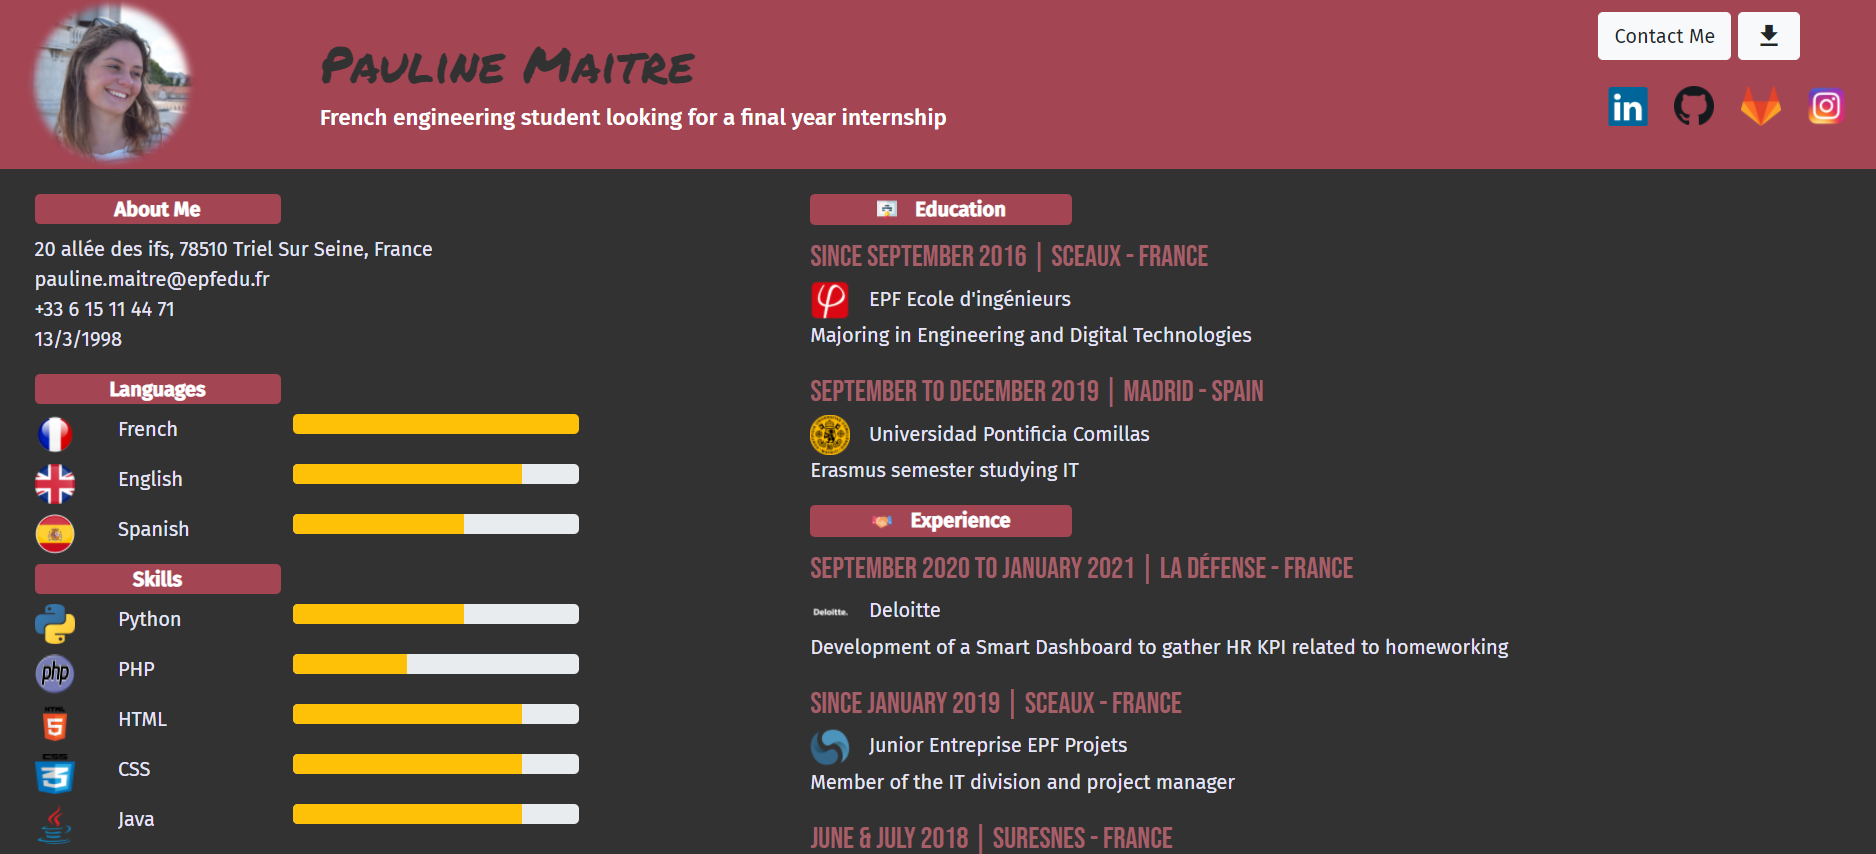
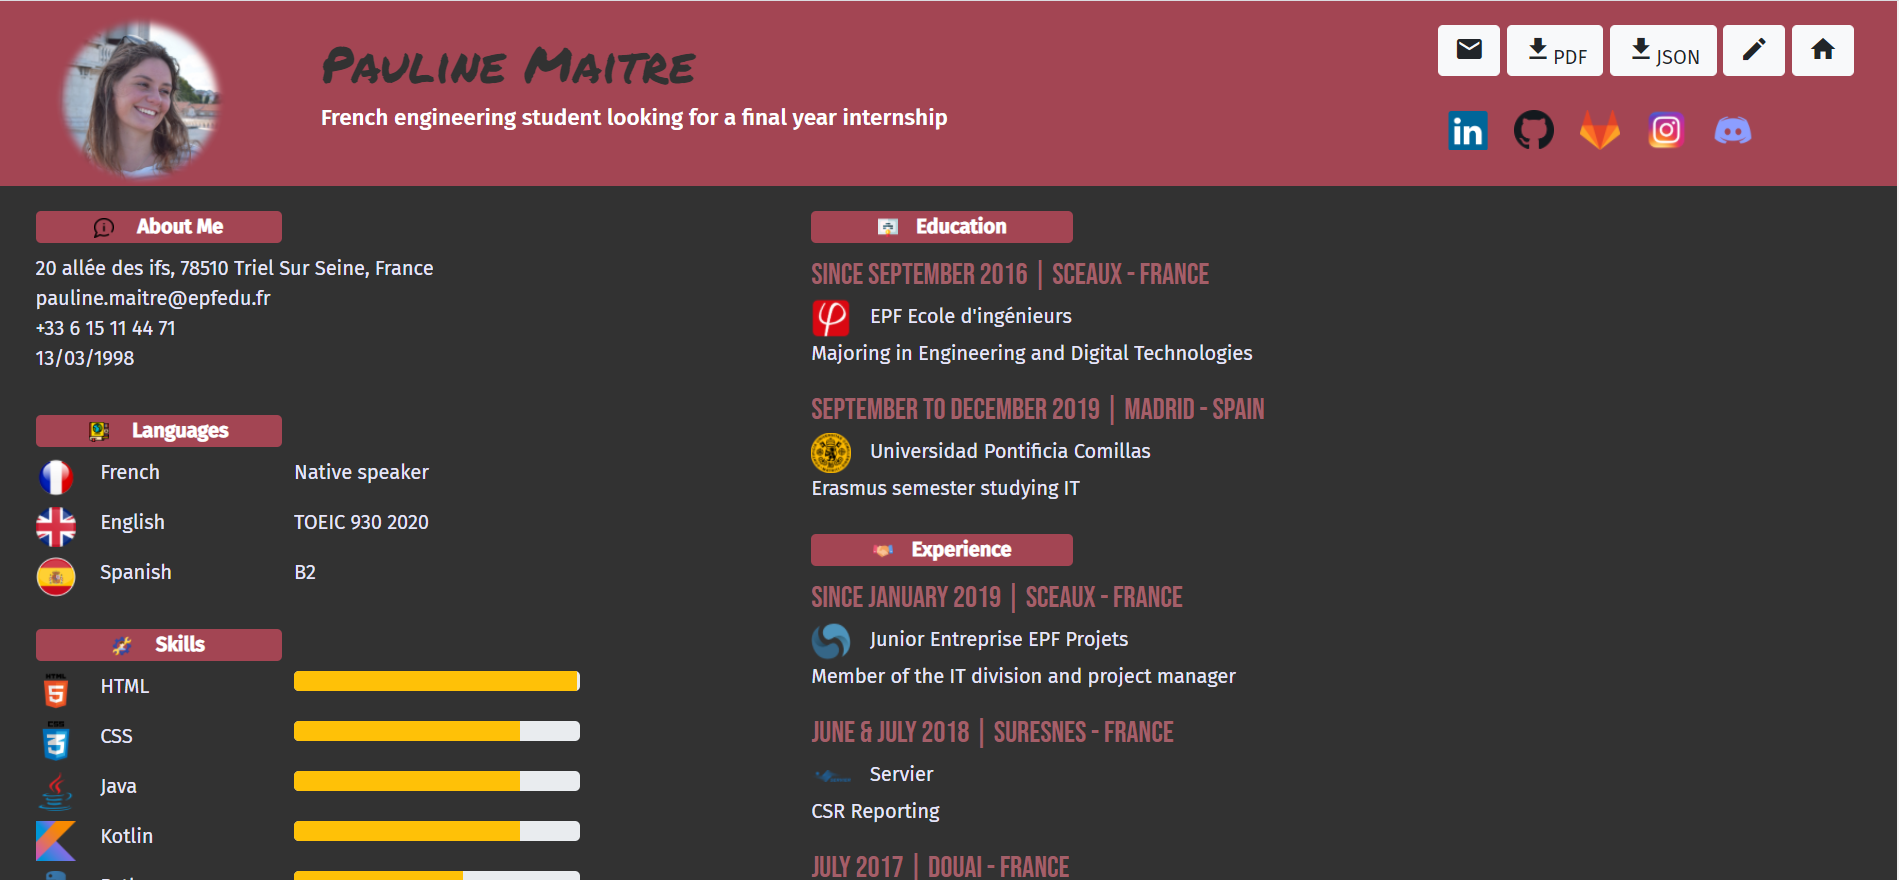
edit buttons to resume header

diff --git a/front/src/app/front-office/cv-header/cv-header.component.html b/front/src/app/front-office/cv-header/cv-header.component.html
@@ -8,11 +8,11 @@
     </div>
     <div class="col-sm-1 col-md-3 col-lg-3">
         <div class="row">
-            <a href="/{{user.id}}#contactForm" class="btn btn-light">Contact Me</a>
-            <button (click)="downloadResumePDF(user.firstName, user.lastName)" class="btn btn-light material-icons">get_app<span class="download">PDF</span></button>
-            <button (click)="downloadResumeJSON(user.firstName, user.lastName)" class="btn btn-light material-icons">get_app<span class="download">JSON</span></button>
-            <a routerLink="/back/edit/{{user.id}}" class="btn btn-light">Edit</a>
-            <a routerLink="/" class="btn btn-light">Home</a>
+            <a href="/{{user.id}}#contactForm" class="btn btn-light material-icons" title="Contact Me">email</a>
+            <button (click)="downloadResumePDF(user.firstName, user.lastName)" class="btn btn-light material-icons" title="Download PDF Resume">get_app<span class="download">PDF</span></button>
+            <button (click)="downloadResumeJSON(user.firstName, user.lastName)" class="btn btn-light material-icons" title="Download JSON Resume">get_app<span class="download">JSON</span></button>
+            <a routerLink="/back/edit/{{user.id}}" class="btn btn-light material-icons" title="Edit Resume">create</a>
+            <a routerLink="/" class="btn btn-light material-icons" title="Home Page">home</a>
         </div>
         <div *ngIf="user.socialLink" class="row">
             <a *ngFor="let socialNetwork of user.socialLink" href={{socialNetwork.link}}>
